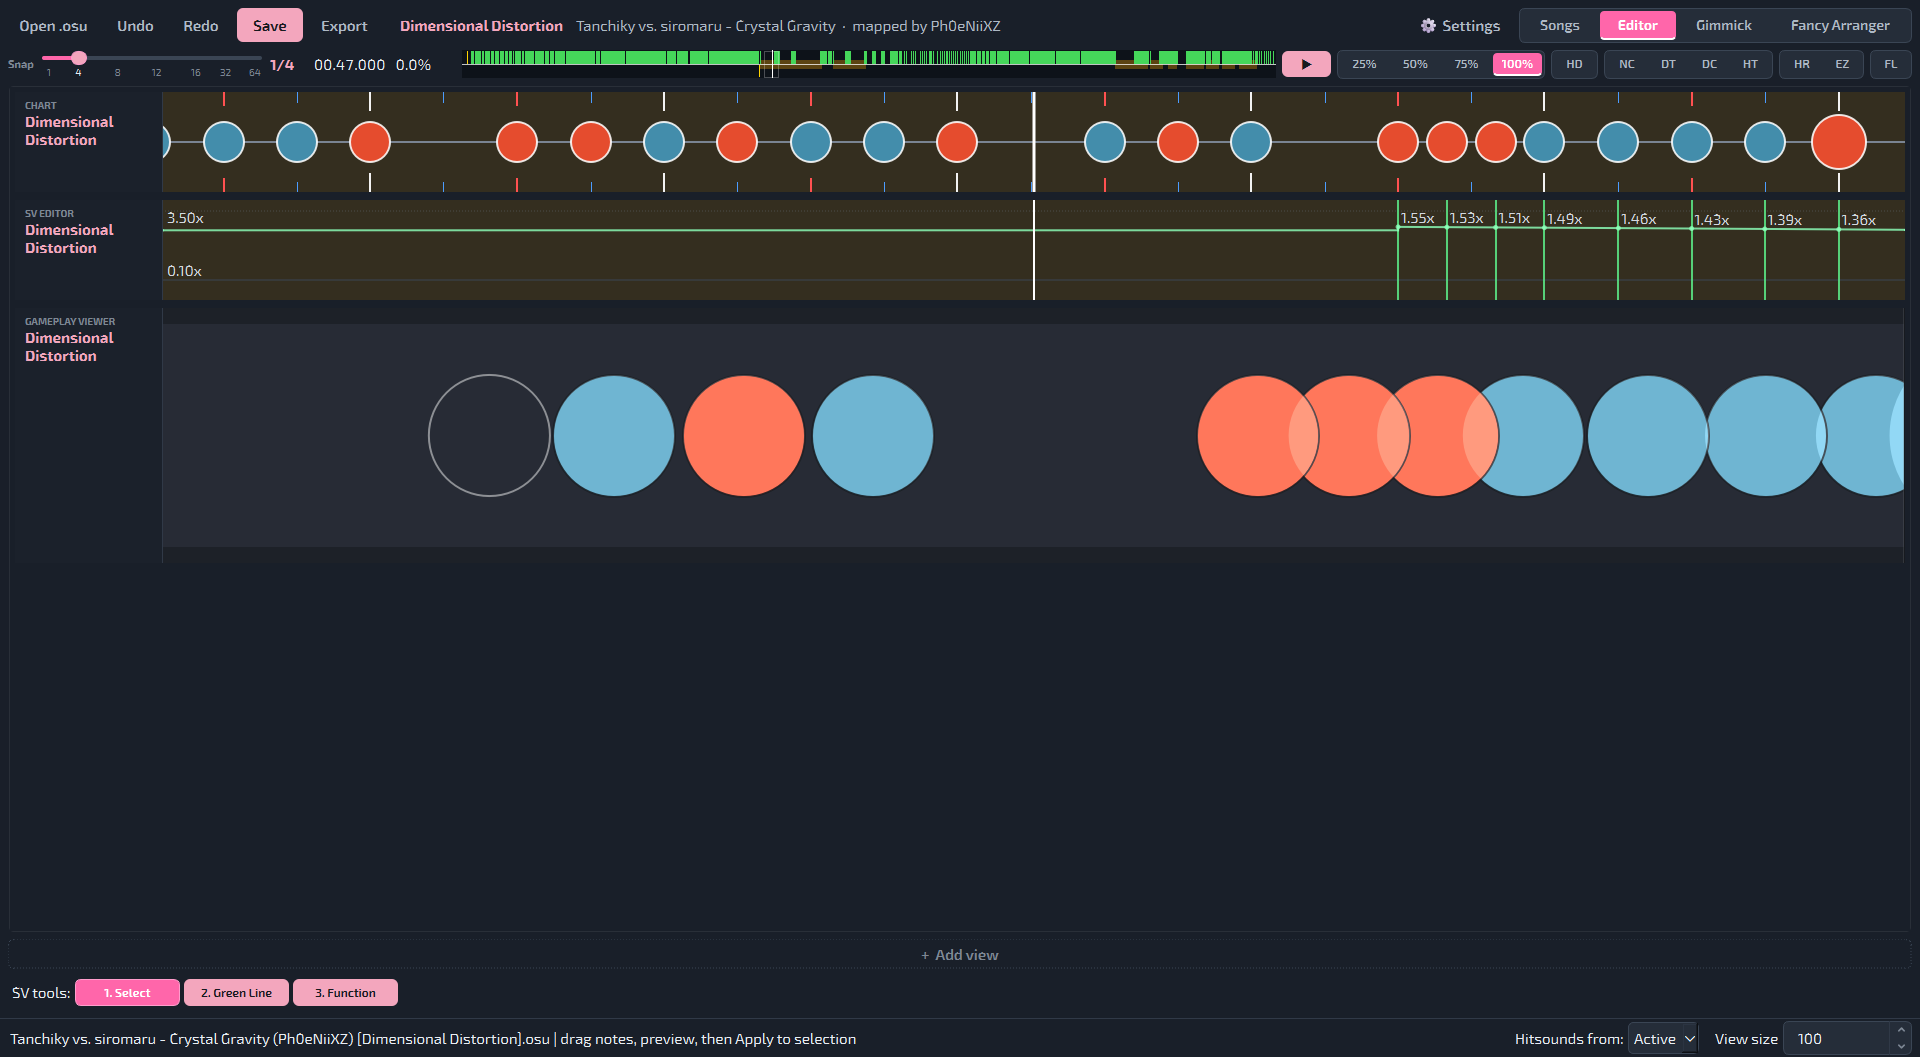
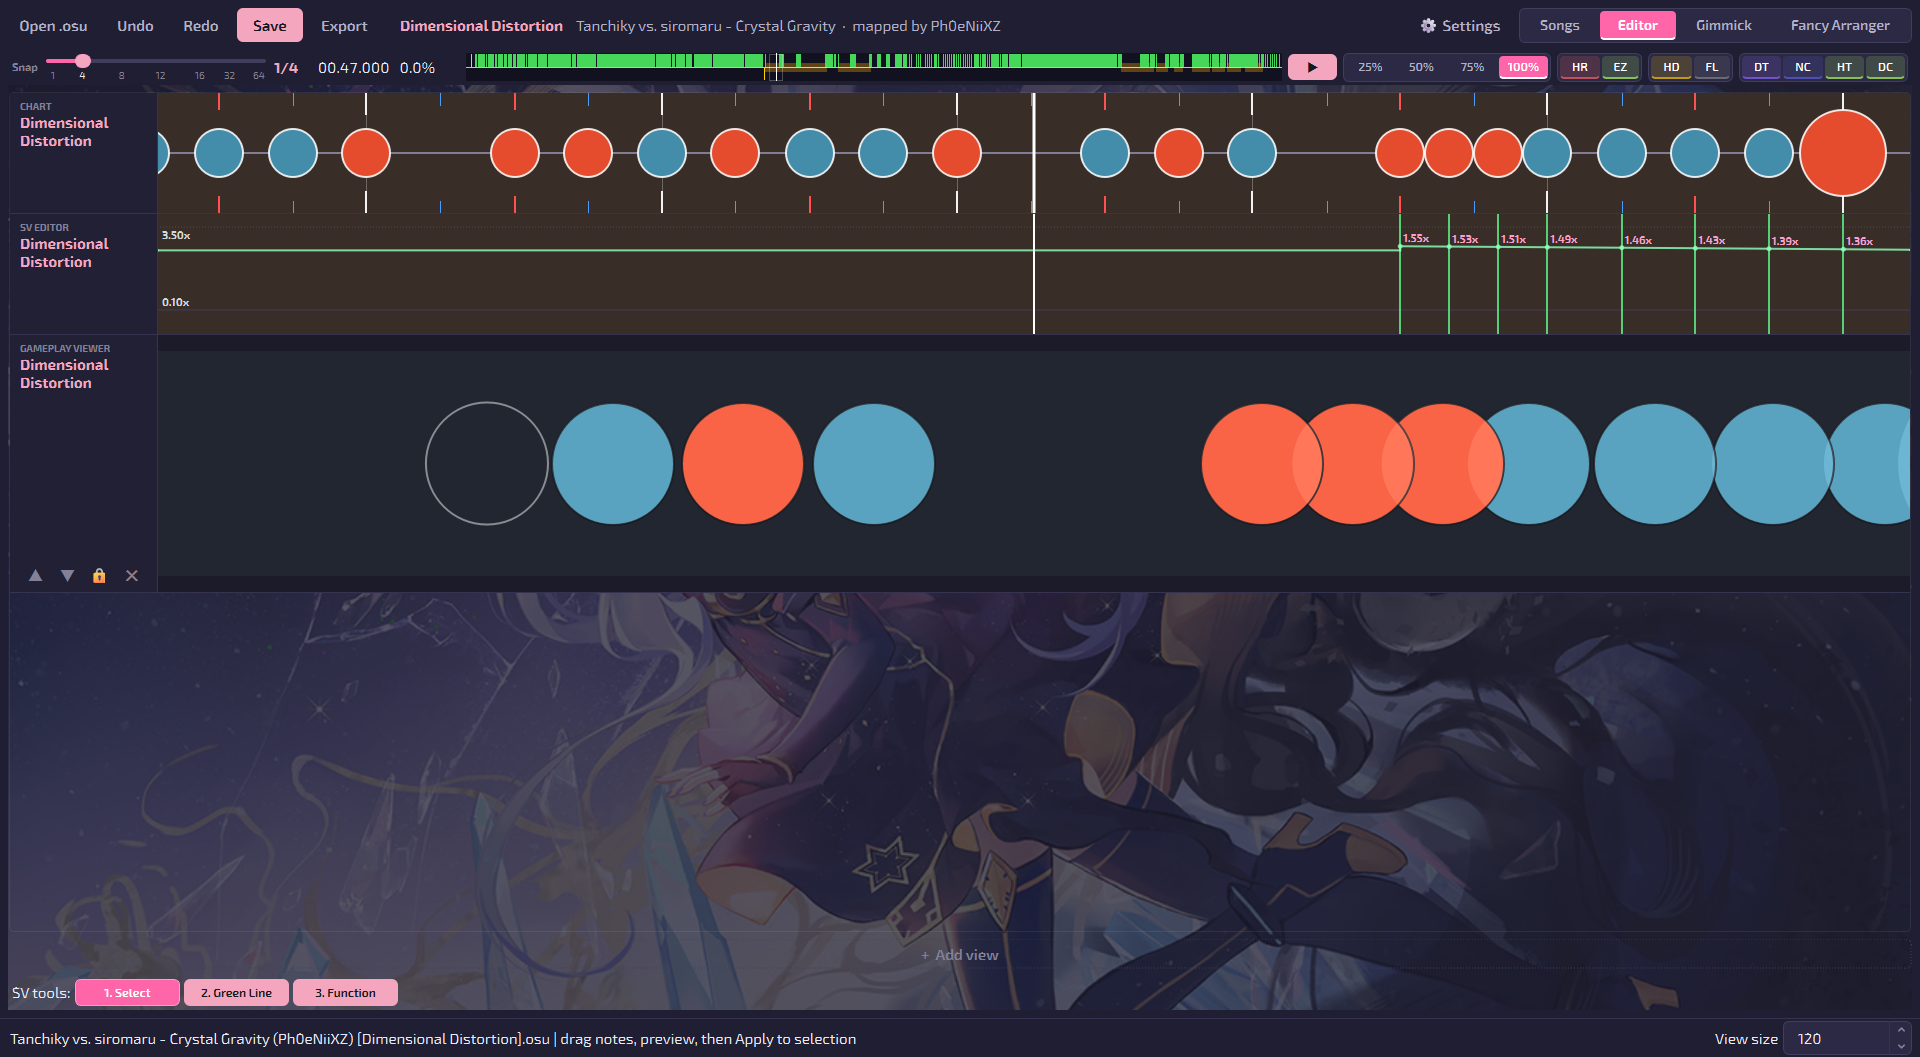
Release v3.5.0: song select around the chart, live themes, views that move
- Song select: the chart scrolls under the art (the real gameplay preview,
  its own SV and BPM), the beat stripe is a hidden seek bar, two columns,
  16:9 art and Continue cards, five difficulty rows kept, "+n" dots.
- Views: drag a header to reorder; the focused view's running rim drawn
  over it (no more shifted snap ticks), the others faded; Esc or a blank
  click lets go; views remembered per difficulty for the session; edge to
  edge with a View opacity setting.
- Themes switch live: osu! (#1f1e33), Taiko, Lantern Rite, Gold, Monokai.
- Density against the most common BPM, one bar per 1%, full at 16 notes in
  4 beats. Finishers play their small note's sample too, and are a third
  bigger in the chart views.
- Fixed: EGTS 2022 (an infinite BPM), song select preview stutter (62 ->
  125 fps, no clock jumps), spinner length on paste and drag, the
  placement ghost on a tool change, Space in song select, Esc in text
  boxes.

README screenshots retaken with the built-in skin and the default theme;
README and README_JP updated; docs/releases/v3.5.0.md. Full suite passed
locally, three files at a time.

diff --git a/tools/readme_screenshots.py b/tools/readme_screenshots.py
@@ -110,6 +110,12 @@ def shoot(widget, name: str) -> None:
 # shows the app, and a personal skin is theirs. Private copy, so theirs stays.
 import settings as _settings  # noqa: E402
 _settings.SettingsManager().set_value("appearance/skin", "")
+# And the defaults for what the screenshots are of, whatever the copy holds.
+_settings.SettingsManager().set_value("appearance/view_opacity", 100)
+# The default theme, which is what a new user sees: the test settings pin the
+# colours as written, which stopped being the default when it moved to #1f1e33.
+import theme  # noqa: E402
+theme.install(theme.DEFAULT)
 
 window = gui.MainWindow()
 window.resize(1920, 1080)

diff --git a/docs/releases/v3.5.0.md b/docs/releases/v3.5.0.md
@@ -1,0 +1,43 @@
+# Taiko Fancy Arranger v3.5.0
+
+A song select rebuilt around the chart, live themes, and the editor's views made to move.
+
+## Updating to this version
+
+From v3.4.2 or later, click **Update and Restart**. From v3.4.1 or earlier, download it by hand once; see the v3.4.2 notes.
+
+## New
+
+- **The chart scrolls under the art in song select.** The selected difficulty plays in a bare black lane under the background -- the real gameplay preview, so it scrolls with the map's own SV and BPM, at 67% of its usual height (50-75% in Settings). It appears with the song, like the difficulties, and its hit target sits nearer the left, since there is no drum to leave room for.
+- **The beat stripe under the art is a seek bar.** Click, drag or scroll on it to move the preview anywhere in the song. It says nothing about it on screen.
+- **Drag a view by its header to reorder it**, on the Editor and Gimmick pages. It lifts, the others glide out of the way and it eases into place; the arrows stay. Measured on *LuzeriA - Nbt-Hwt [The Pharaoh's Curse]*'s seven gimmick layers at 1920x1080: 1.1ms a frame, a frame every 8ms.
+- **Themes change as they are picked**, with no restart, and Cancel puts the old one back. A switch takes about a quarter of a second on a full window. The pink theme is now **osu!**, grounded on #1f1e33, and **Lantern Rite**, **Gold** and **Monokai** are new.
+- **A selected view is lit, and the others fade.** The focused view carries a slow running light round its rim; the other views on its page dim. **Esc**, or a click on the empty space under the views, lets go of it -- and the next Esc goes back to the song list as before. The same light runs round the selected song and difficulty, Left/Right flies it between the two lists, and the page tabs catch a sheen on hover.
+- **Esc in a text box only leaves the box**, in the window or a dialog; the next Esc does what it always did.
+- **Views come back.** Going to the song list and returning to a difficulty restores the views that were open for it, in their order, on both pages, for the session.
+- **View opacity**, in Settings: lower shows more of the map's background through every view.
+
+## Changed
+
+- **Song select is two columns.** The search, the Continue cards and the song list share one width; the art sits right under the pills at 16:9. Continue shows four cards of one size, each its chart's art at 16:9, and remembers four. The difficulty list keeps room for five difficulties until the window is too short for it.
+- **Density is read against the chart's most common BPM**, the tempo in force for the most time (aleph-0 is mostly 250 for all its 400 and 140), one bar per 1% of the song, full at 16 notes in 4 beats. It used to be scaled to its own busiest bar, so one burst flattened the rest of the song.
+- **A finisher plays its small note's sound under the big one** -- hitnormal with hitfinish, hitclap with hitwhistle -- as in game.
+- **Finishers are a third bigger** in the Editor and Gimmick chart views, so they stand out in a dense row. The gameplay preview keeps osu!'s size.
+- **Mod pills are grouped [HR EZ] [HD FL] [DT NC HT DC]**, each in its own colour. A lit EZ, HT or DC fills a darker green (white text at 4.6:1, against osu!'s 1.2:1). HT and DC light 75% too. Mod strings keep osu!'s order.
+- **The kiai flash is softer**: a don or kat peaks at 0.10 white instead of 0.19. Shiny stacks are unchanged.
+- **The gameplay preview's lane is the skin's `taiko-bar-right`**, its kiai glow `taiko-bar-right-glow` at half strength.
+- **The mouse wheel scrolls the song anywhere on the Editor page**, as on the Gimmick page; the strip on the right still scrolls the page.
+- **The Fancy Arranger's chart lane is drawn like the Editor's**, notes on a centred row.
+- **Song rows show at most 20 difficulty dots**, then "+n".
+- **"Hitsounds from" is gone** from the status bar; hitsounds come from the difficulty being edited.
+
+## Fixed
+
+- **Space in song select played the editor's song** after a trip into a chart. It plays the song list's song now.
+- **The EGTS 2022 pack showed one difficulty and played nothing.** One chart's red lines have a beat length of 1.1e-319, which is an infinite BPM, and printing it crashed the list. It reads ∞ now; all ten charts load.
+- **The song select preview stuttered.** It drew 62 frames a second and its clock jumped back 40ms five times a second, chasing a player that reports its position every 52ms. It draws 125 now, with no jumps.
+- **Focusing a view shifted its snap ticks.** The rim took 2px from each side of the lane; it is drawn over the view now.
+- **A pasted or dragged spinner changed length.** Its end time moved with nothing; it moves with the spinner now.
+- **Picking another object to place did not show until the mouse moved.**
+- **A right click while dragging a selection opened Add view**, and right clicks on the timing bar could open it too. Only the empty space under the views opens it now, and never mid-drag.
+- **The view backgrounds on the Editor page were solid navy** whatever View opacity said.

diff --git a/README.md b/README.md
@@ -15,7 +15,7 @@ Taiko Fancy Arranger started as a tool for turning osu!taiko notes into visual p
 
 The editor does not support editing storyboards, breaks, colours, editor bookmarks yet.
 
-> **Current release:** v3.4.3  
+> **Current release:** v3.5.0  
 > **Platform:** Windows x64  
 > **Author:** [jimmyreturnz](https://osu.ppy.sh/users/11306153)
 
@@ -57,15 +57,18 @@ The main inspirations include Alchyr's ranked maps *13 Stairs* and *Helios*, whi
 
 ---
 
-## What is new in 3.4.3
+## What is new in 3.5.0
 
-App themes, delivered by the in-place updater.
+A song select rebuilt around the chart, live themes, and views that move.
 
-- **Four app themes** in **Settings → Skin → App theme**: Pink (default), Taiko, Matsuri and Kiai. Notes, snap ticks and the SV graph keep osu!'s colours.
-- **Fixed**: SV and volume labels cut off at the top of a layer.
-- **Updating from 3.4.2** is one click: **Update and Restart**.
+- **The chart scrolls under the art in song select**, with its own SV and BPM, and the beat stripe under the art is a hidden seek bar.
+- **Drag a view by its header to reorder it.** The focused view carries a running light round its rim and the others fade; Esc or a click on blank space lets go of it.
+- **Themes change as you pick them**, no restart: **osu!** (default), **Taiko**, **Lantern Rite**, **Gold** and **Monokai**.
+- **Density reads against the chart's most common BPM**, one bar per 1% of the song.
+- **A finisher plays its small note's sound under the big one**, and is a third bigger in the chart views.
+- **Fixed**: the EGTS 2022 pack not loading, a stuttering song select preview, pasted spinners changing length.
 
-Full notes: [`docs/releases/v3.4.3.md`](docs/releases/v3.4.3.md).
+Full notes: [`docs/releases/v3.5.0.md`](docs/releases/v3.5.0.md).
 
 ## What is new in 3.4.0
 
@@ -91,7 +94,7 @@ Full development log detail lives in [`docs/DEVELOPMENT_PLAN.md`](docs/DEVELOPME
 
 ## Windows SmartScreen notice
 
-Taiko Fancy Arranger v3.4.3 is a currently unsigned Windows application. The release includes source-level security hardening, input validation, safer file handling, automated tests, and published SHA-256 checksums.
+Taiko Fancy Arranger v3.5.0 is a currently unsigned Windows application. The release includes source-level security hardening, input validation, safer file handling, automated tests, and published SHA-256 checksums.
 
 Windows Defender SmartScreen may still display an "unrecognized app" warning because the executable has not yet established download reputation.
 
@@ -507,7 +510,7 @@ Do not upload copyrighted audio or private beatmap assets unless permission has 
 
 ## Project status
 
-Version 3.4.3 is the current public release. The project focuses on creative single player editing, arrangement and previewing. Multiplayer and automatic difficulty calculation are outside the current scope.
+Version 3.5.0 is the current public release. The project focuses on creative single player editing, arrangement and previewing. Multiplayer and automatic difficulty calculation are outside the current scope.
 
 Not yet implemented, and next in line:
 

diff --git a/docs/DEVELOPMENT_PLAN.md b/docs/DEVELOPMENT_PLAN.md
@@ -754,6 +754,20 @@ Gimmick pages, and the BPM stripe is a hidden seek bar.
   left, no gray strip.
 - Drag a view by its header to reorder it.
 
+### After v3.5.0 -- recorded, not started
+
+- **Left/Right steps the playhead one snap; Up/Down focuses the next view**,
+  on the Editor and Gimmick pages (owner, 2026-10-08).
+- **Theme switching faster.** Measured 2026-10-08 (BREAKTHROUGH, Editor page,
+  517 widgets): ~180ms in theme.switch -- the window's sheet 71ms, then nested
+  sheets re-polish their subtrees again: the docks' QMainWindow 24ms, two shape
+  tile grids 17+13ms, the song select page 11ms, a scroll area 5ms -- plus
+  ~45ms retheme and paint. Folding those nested sheets into the window's (by
+  object name) would take the second pass away.
+- **test_playback_timing's paused-seek test is flaky** (3 runs in 4 fail,
+  already at d56b51e); and test_gimmick_editor holds ~5.7GB and takes ~40s
+  to exit after printing OK.
+
 ### Can be built now, no guidance needed
 
 1. **Mod pills regrouped** as `[HR EZ] [HD FL] [DT NC HT DC]` (`_build_mod_strip`).
